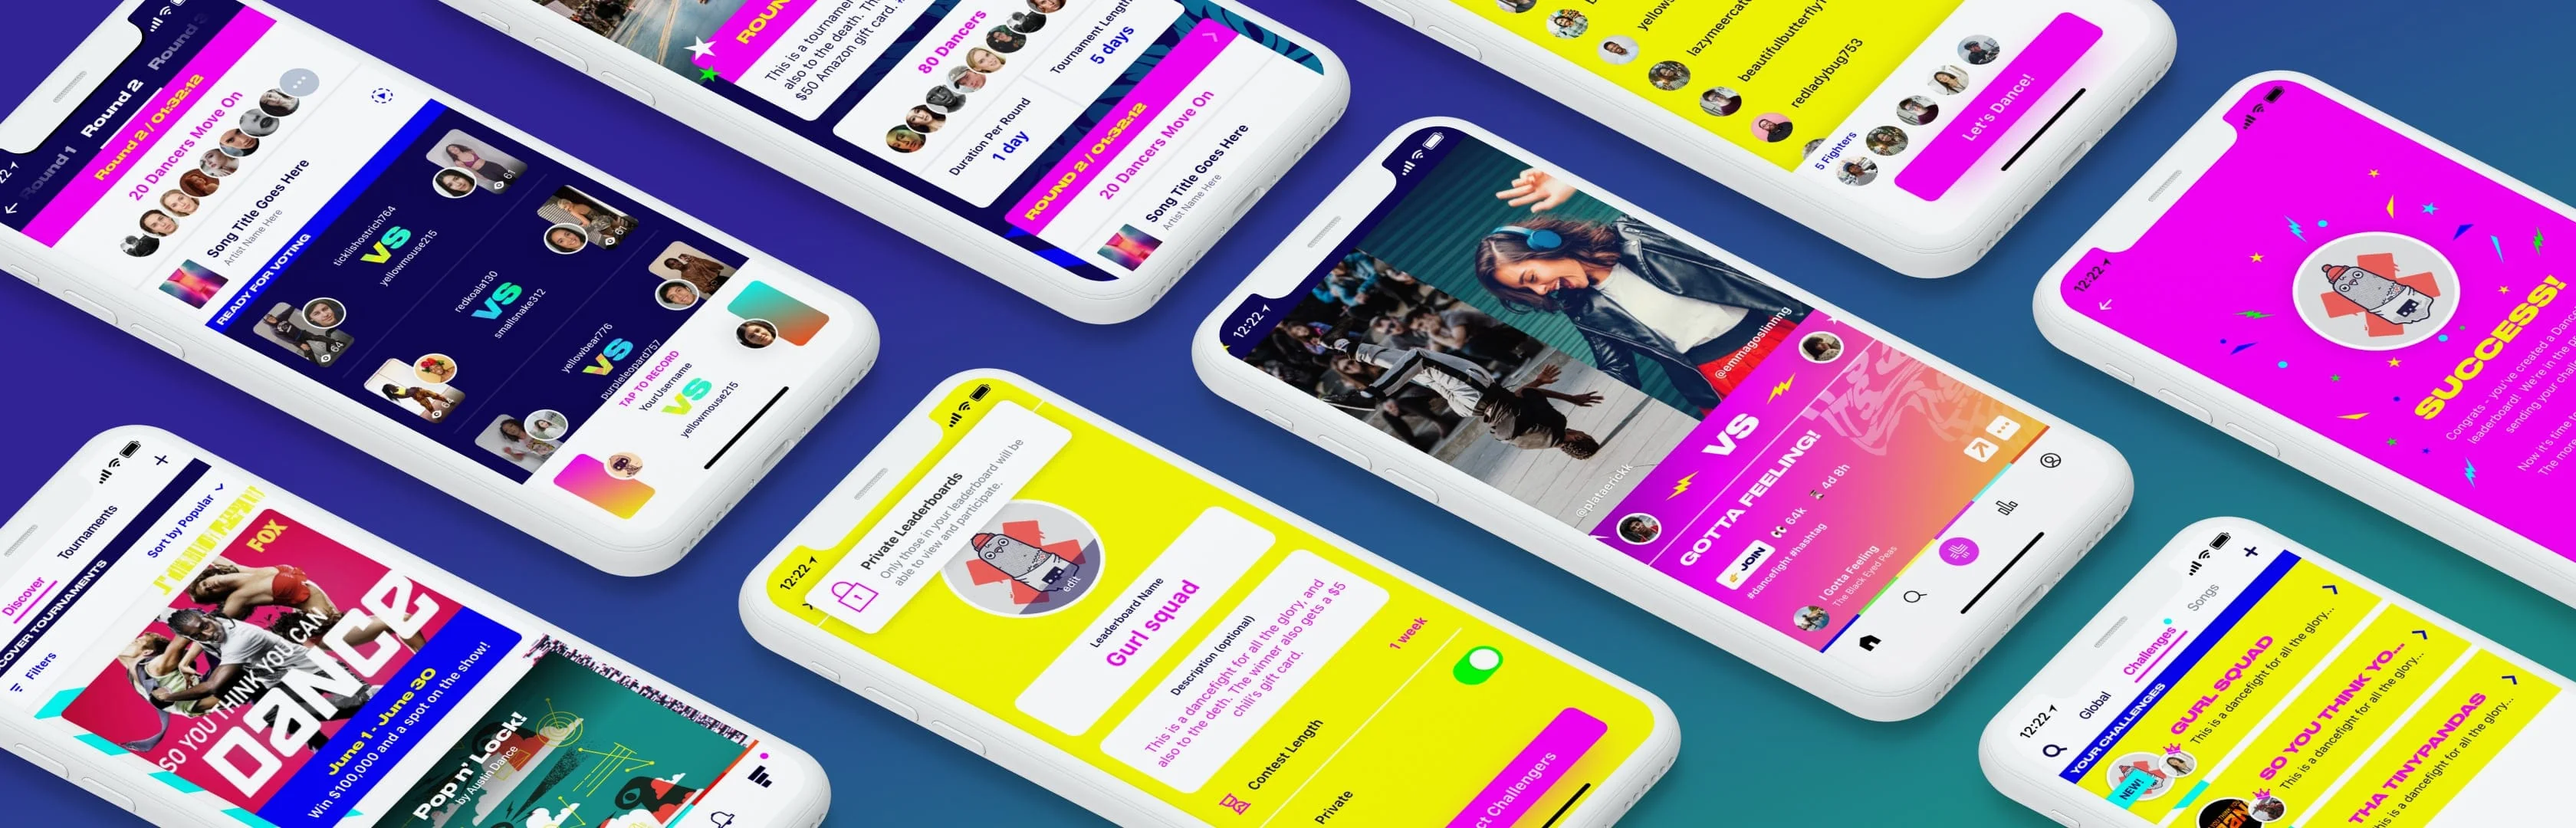
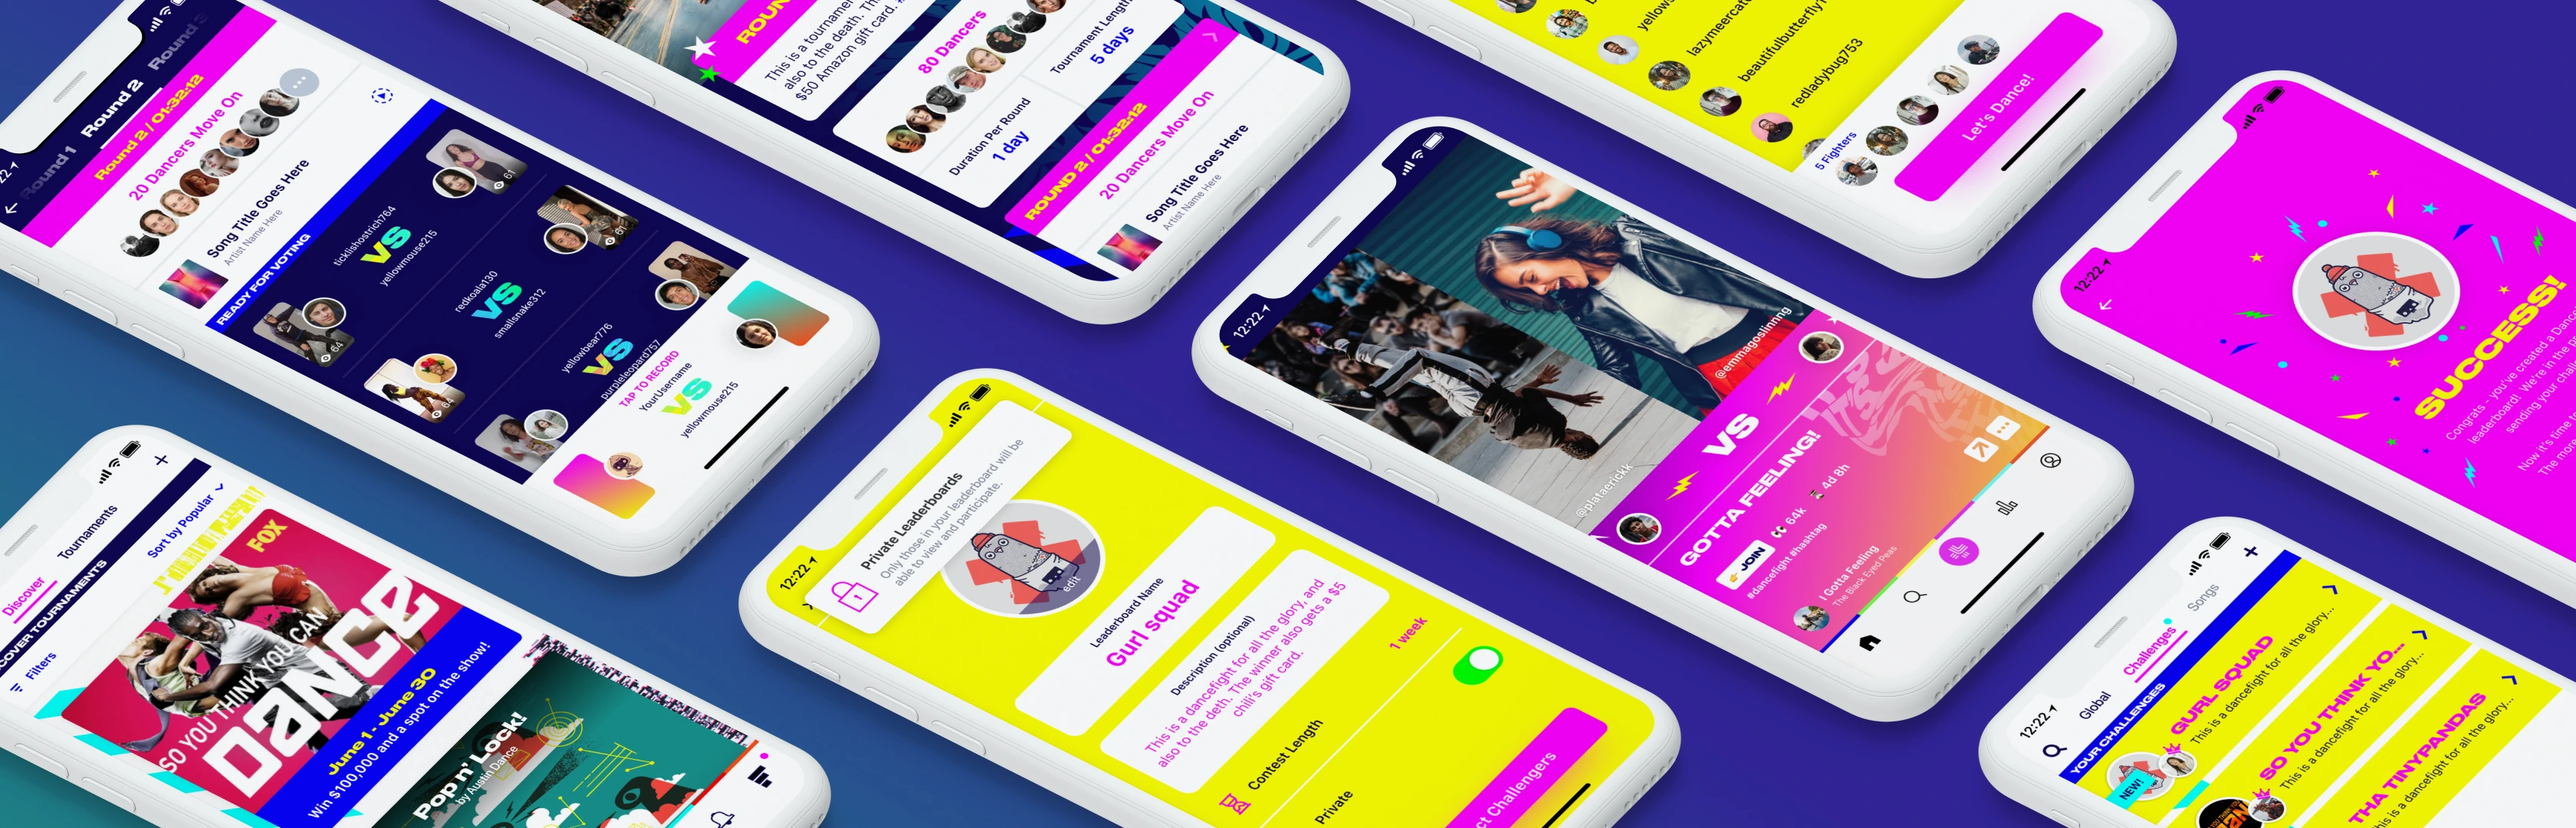
Dancefight: new image exports; top image to 5 of 6 columns
Dave re-exported both shots (dnce1/dnce3 JPEGs, converted to the site's
WebP at q92 — both edge-flush, no baked padding). The section grid goes
from 3 to 6 columns so the top image can sit one column wider than the
previous stagger: md:col-span-5 md:col-start-2, flush right, matching
the Strangeworks closer. dance3 stays full width; mobile unchanged.

diff --git a/components/Dancefight.tsx b/components/Dancefight.tsx
@@ -5,8 +5,8 @@ import CompanyMark from '@/components/CompanyMark';
 
 const Dancefight = () => {
   return (
-    <AnimatedSection className="dance grid grid-cols-1 md:grid-cols-3 gap-12 items-center">
-      <div className="info col-span-1 md:col-span-3 text-left text-white px-8 py-8 border-2 border-white/20 rounded-lg max-w-3xl mx-auto mb-12">
+    <AnimatedSection className="dance grid grid-cols-1 md:grid-cols-6 gap-12 items-center">
+      <div className="info col-span-1 md:col-span-6 text-left text-white px-8 py-8 border-2 border-white/20 rounded-lg max-w-3xl mx-auto mb-12">
         <div className="flex items-start gap-4 mb-4">
           <CompanyMark company="dancefight" />
           <div>
@@ -20,10 +20,10 @@ const Dancefight = () => {
           I designed the core UX and final UIs for this seed-stage startup: onboarding, the main feed, the voting flow, and tournament brackets.
         </p>
       </div>
-      <div className="col-span-1 md:col-span-2 md:col-start-2 relative">
+      <div className="col-span-1 md:col-span-5 md:col-start-2 relative">
           <Image src="/imgs/dance/dance1.webp" alt="dancefight example" width={800} height={600} className="w-full rounded shadow-2xl" />
       </div>
-      <div className="col-span-1 md:col-span-3 relative">
+      <div className="col-span-1 md:col-span-6 relative">
           <Image src="/imgs/dance/dance3.webp" alt="dancefight example" width={800} height={600} className="w-full rounded shadow-2xl" />
       </div>
     </AnimatedSection>
